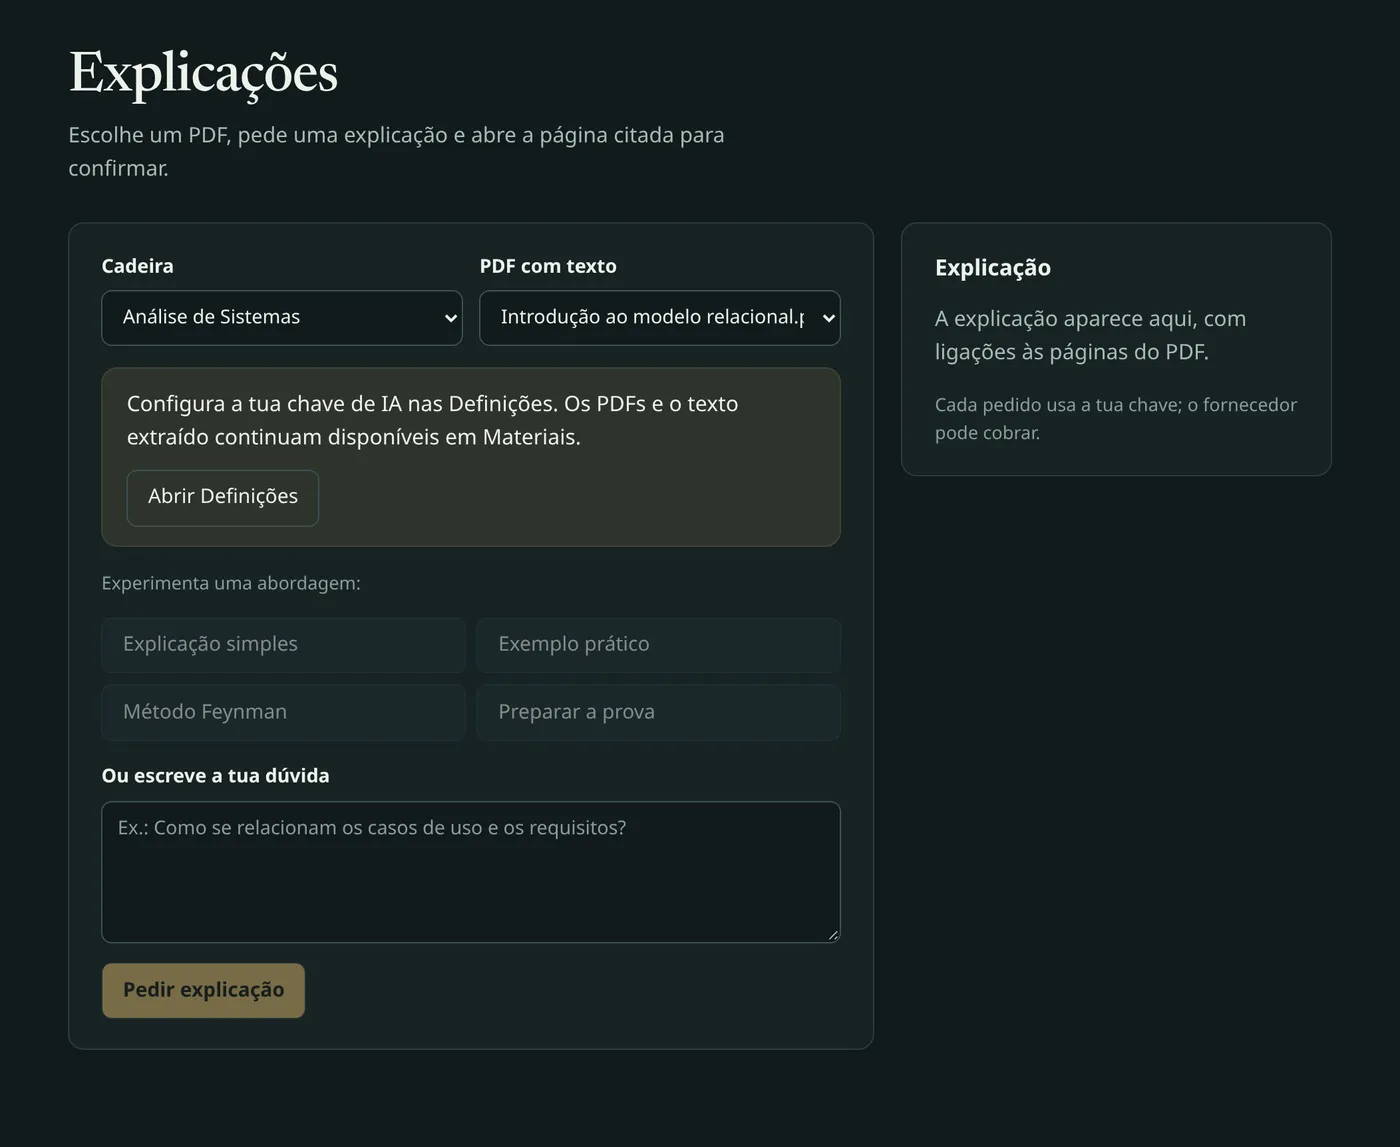
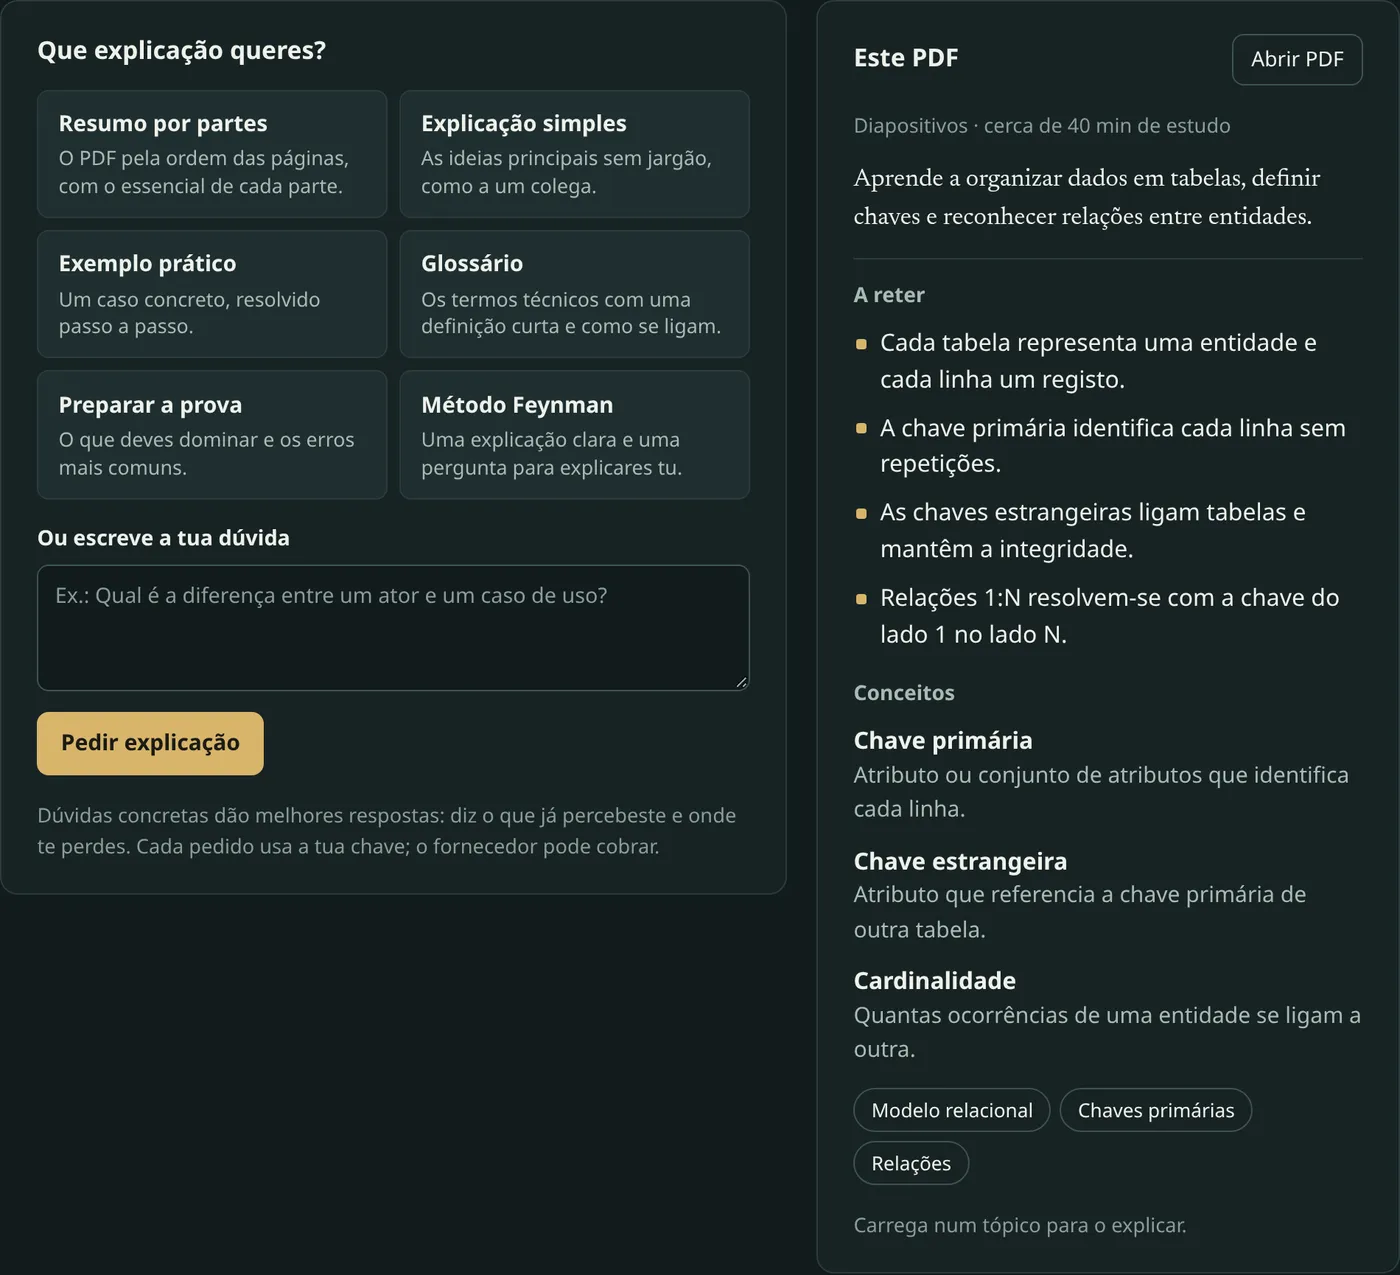
Publish launch site and signing policy

diff --git a/site/index.html b/site/index.html
@@ -62,7 +62,7 @@
       </figure>
       <h3 class="lp-subhead">Para estudar</h3>
       <div class="lp-tools">
-        <article class="lp-tool lp-tool-w7"><img src="/screenshots/explicacoes.webp" alt="Ecrã Explicações com escolha de cadeira e PDF e abordagens como explicação simples ou método Feynman" loading="lazy" width="1400" height="1147">
+        <article class="lp-tool lp-tool-w7"><img src="/screenshots/explicacoes.webp" alt="Ecrã Explicações com seis formas de pedir uma explicação e resumo do PDF escolhido" loading="lazy" width="1400" height="1275">
           <div class="lp-tool-text"><h4>Explicações com fontes</h4><p>Pergunta sobre um PDF e recebe uma explicação com ligações às páginas usadas.</p><span class="lp-req lp-req-ai">Usa a análise dos PDFs</span></div></article>
         <article class="lp-tool lp-tool-w5"><img src="/screenshots/flashcards.webp" alt="Ecrã Flashcards com uma carta revelada e os botões Ainda não, Quase e Percebi" loading="lazy" width="1400" height="1091">
           <div class="lp-tool-text"><h4>Flashcards</h4><p>Revisão espaçada, com uma ou várias cadeiras no mesmo baralho.</p><span class="lp-req lp-req-ai">Usa a análise dos PDFs</span></div></article>
@@ -88,7 +88,7 @@
           <div class="lp-download-option"><h3>Pelo GitHub</h3><p>Escolhe a versão na página de releases, com as notas de cada uma e as anteriores.</p>
             <a class="button" href="https://github.com/miguelaopt/caderno/releases">Descarregar no GitHub</a></div>
         </div>
-        <p class="lp-small">O ficheiro vem sempre das releases do GitHub. O instalador ainda não tem assinatura de código, por isso o Windows pode mostrar um aviso de editor desconhecido. <a href="https://github.com/miguelaopt/caderno/blob/main/docs/DESKTOP.md">Instruções de instalação</a>.</p>
+        <p class="lp-small">O ficheiro vem sempre das releases do GitHub. O instalador ainda não tem assinatura de código, por isso o Windows pode mostrar um aviso de editor desconhecido. <a href="https://github.com/miguelaopt/caderno/blob/main/docs/DESKTOP.md">Instruções de instalação</a> · <a href="https://github.com/miguelaopt/caderno#code-signing-policy">Code signing policy</a>.</p>
         <dl class="lp-facts">
           <div><dt>Materiais</dt><dd>Em Documentos\Caderno\Materiais. Se o Windows redirecionar Documentos para o OneDrive, o Caderno usa essa pasta.</dd></div>
           <div><dt>Sem internet</dt><dd>Os PDFs já importados abrem no visualizador da aplicação. Resumos, perguntas e flashcards já criados continuam disponíveis.</dd></div>
@@ -121,7 +121,7 @@
           <li><strong>Pedes o resumo</strong> Num PDF ou para os PDFs pendentes. Importar ficheiros ou sincronizar o Moodle nunca inicia uma análise.</li>
         </ol>
         <p class="lp-small">Cada pedido vai diretamente do teu computador para o fornecedor, que o pode cobrar na tua conta. A chave fica cifrada no computador e não aparece na exportação de dados.</p></div>
-      <figure class="lp-settings"><img class="lp-shot" src="/screenshots/chave-ia.webp" alt="Secção A tua chave de IA nas Definições, com fornecedor, chave de API, modelos para resumos e explicações e URL base para serviços compatíveis" loading="lazy" width="930" height="1244">
+      <figure class="lp-settings"><img class="lp-shot" src="/screenshots/chave-ia.webp" alt="Secção A tua chave de IA nas Definições, com o fornecedor Groq e modelos sugeridos" loading="lazy" width="930" height="1874">
         <figcaption>Definições, secção «A tua chave de IA».</figcaption></figure>
     </div>
   </section>
@@ -131,11 +131,11 @@
     <div class="lp-body lp-open">
       <div><h2 id="codigo-title">Código aberto de verdade</h2>
         <p class="lp-intro">O Caderno é publicado sob a licença MIT. Podes ler o código, compilar a tua própria versão, adaptá-la e propor alterações.</p>
-        <ul class="lp-links"><li><a href="https://github.com/miguelaopt/caderno">Repositório no GitHub</a></li><li><a href="https://github.com/miguelaopt/caderno#readme">README</a></li><li><a href="https://github.com/miguelaopt/caderno/issues">Issues</a></li><li><a href="https://github.com/miguelaopt/caderno/blob/main/CONTRIBUTING.md">CONTRIBUTING.md</a></li></ul></div>
+        <ul class="lp-links"><li><a href="https://github.com/miguelaopt/caderno">Repositório no GitHub</a></li><li><a href="https://github.com/miguelaopt/caderno#readme">README</a></li><li><a href="https://github.com/miguelaopt/caderno#code-signing-policy">Code signing policy</a></li><li><a href="https://github.com/miguelaopt/caderno/issues">Issues</a></li><li><a href="https://github.com/miguelaopt/caderno/blob/main/CONTRIBUTING.md">CONTRIBUTING.md</a></li></ul></div>
       <figure class="lp-code"><pre><code>npm ci
 npm run desktop:dev</code></pre><figcaption>Requer Node 24. O segundo comando abre a aplicação a partir do código.</figcaption></figure>
       <div class="lp-control"><h3>Sem conta, sem servidor</h3>
-        <p>Não há nada para registar. Os ficheiros, o progresso e as chaves ficam no teu computador; só o Moodle e o fornecedor de IA que escolheres recebem pedidos.</p></div>
+        <p>Não há nada para registar. Os ficheiros, o progresso e as chaves ficam no teu computador; a aplicação comunica com o Moodle, o fornecedor de IA que escolheres e o GitHub para procurar atualizações.</p></div>
       <div class="lp-control"><h3>O que controlas</h3>
         <p>Exportar os dados, apagar tudo, desligar o Moodle, escolher o fornecedor de IA e retirar a autorização de análise.</p></div>
     </div>

diff --git a/site/privacidade.html b/site/privacidade.html
@@ -29,10 +29,13 @@
   <p>Se ligares o Moodle, o Caderno envia o utilizador e a palavra-passe à plataforma que indicaste para obter uma chave de acesso. A palavra-passe não é guardada; a chave fica cifrada no teu computador. O acesso aos materiais continua sujeito às permissões da tua conta Moodle. Para revogar a chave, usa a página Chaves de segurança do teu perfil no Moodle.</p>
 
   <h2>Inteligência artificial</h2>
-  <p>A IA é opcional. Só depois de configurares a tua chave e autorizares a análise é que o texto de PDFs não classificados como sensíveis é enviado, a partir do teu computador, ao fornecedor que escolheste. Esse fornecedor pode cobrar os pedidos e trata os dados segundo a sua própria política. Podes retirar a autorização quando quiseres.</p>
+  <p>A IA é opcional. Só depois de configurares a tua chave e autorizares a análise é que o texto de PDFs não classificados como sensíveis é enviado, a partir do teu computador, ao fornecedor que escolheste. Esse fornecedor pode cobrar os pedidos e trata os dados segundo a sua própria política. Consulta as políticas de <a href="https://privacy.anthropic.com/en/">Anthropic</a>, <a href="https://openai.com/policies/">OpenAI</a>, <a href="https://platform.deepseek.com/downloads/DeepSeek%20Privacy%20Policy.pdf">DeepSeek</a> ou <a href="https://groq.com/privacy-policy">Groq</a>, conforme a tua escolha. Para outro serviço compatível, consulta a política que ele publicar. Podes retirar a autorização quando quiseres.</p>
 
   <h2>Este site</h2>
   <p>Este site não usa cookies nem ferramentas de análise. Guarda apenas o tema que escolheres no teu browser. Para mostrar a versão mais recente, o browser consulta a API pública do GitHub, e os instaladores são descarregados das releases do GitHub. O alojamento do site pode registar dados técnicos de acesso, como o endereço IP, segundo as regras do fornecedor de alojamento.</p>
+
+  <h2>Ligações externas</h2>
+  <p>O site e a aplicação incluem ligações para o <a href="https://github.com/miguelaopt/caderno">GitHub</a>, onde estão o código, as releases e os formulários para reportar problemas, e para o <a href="https://ko-fi.com/miguelaopt">Ko-fi</a>, onde podes apoiar o projeto. Se abrires estas ligações, passas a usar serviços externos; consulta as políticas de privacidade do <a href="https://docs.github.com/en/site-policy/privacy-policies/github-general-privacy-statement">GitHub</a> e do <a href="https://more.ko-fi.com/privacy">Ko-fi</a>. A aplicação também consulta o GitHub para procurar atualizações.</p>
 
   <h2>Termos de utilização</h2>
   <p>O Caderno é distribuído sob a <a href="https://github.com/miguelaopt/caderno/blob/main/LICENSE">licença MIT</a>, sem garantias. É uma ferramenta independente, sem afiliação ao Moodle. Usa apenas materiais a que tens direito de acesso. Os resumos e as explicações ajudam a estudar mas podem conter erros: confirma sempre na fonte.</p>

diff --git a/README.md b/README.md
@@ -6,9 +6,21 @@ Não há contas nem servidor: a aplicação usa um perfil local e guarda tudo no
 
 ## Descarregar
 
-O site (pasta [`site/`](site/)) liga sempre ao instalador mais recente das [releases do GitHub](https://github.com/miguelaopt/caderno/releases), que também podem ser usadas diretamente. Instruções de instalação, cópias de segurança e compilação: [docs/DESKTOP.md](docs/DESKTOP.md).
+O [site do Caderno](https://caderno.me) (pasta [`site/`](site/)) liga sempre ao instalador mais recente das [releases do GitHub](https://github.com/miguelaopt/caderno/releases), que também podem ser usadas diretamente. Instruções de instalação, cópias de segurança e compilação: [docs/DESKTOP.md](docs/DESKTOP.md).
 
 O instalador ainda não está assinado; o Windows pode mostrar um aviso de editor desconhecido.
+
+## Code signing policy
+
+Esta política aplica-se às futuras versões assinadas. A versão 0.3.1 e as anteriores ainda não têm assinatura de código.
+
+Free code signing provided by [SignPath.io](https://signpath.io), certificate by [SignPath Foundation](https://signpath.org).
+
+- **Autor e responsável pelo código:** [Miguel Ferreira](https://github.com/miguelaopt).
+- **Revisor de contribuições externas:** [Miguel Ferreira](https://github.com/miguelaopt).
+- **Aprovador de cada pedido de assinatura:** [Miguel Ferreira](https://github.com/miguelaopt).
+
+As versões são compiladas a partir do código público no [GitHub Actions](.github/workflows/windows.yml). Cada pedido de assinatura de uma release terá aprovação manual. A [política de privacidade](https://caderno.me/privacidade) explica quando a aplicação comunica com o Moodle, com o fornecedor de IA escolhido e com o GitHub, e identifica os serviços externos usados por ligações do site e da aplicação.
 
 ## Onde ficam os dados
 

diff --git a/docs/DESKTOP.md b/docs/DESKTOP.md
@@ -6,7 +6,7 @@ Os PDFs já guardados abrem sem internet. Outros ficheiros ficam na pasta Docume
 
 ## Instalar
 
-Descarrega o instalador mais recente em [Releases](https://github.com/miguelaopt/caderno/releases/latest) (ficheiro `Caderno-<versão>-Windows-x64.exe`), executa-o e escolhe a pasta de instalação. É um instalador x64 sem assinatura de código; o Windows pode apresentar um aviso de editor desconhecido. O código e o processo de build estão neste repositório.
+Descarrega o instalador mais recente em [Releases](https://github.com/miguelaopt/caderno/releases/latest) (ficheiro `Caderno-<versão>-Windows-x64.exe`), executa-o e escolhe a pasta de instalação. É um instalador x64 sem assinatura de código; o Windows pode apresentar um aviso de editor desconhecido. O código, a [Code signing policy](../README.md#code-signing-policy) e o processo de build estão neste repositório.
 
 Ao abrir pela primeira vez, um guia de início ajuda a juntar as cadeiras, a definir o tempo de estudo e, se quiseres, a configurar a IA; podes reabri-lo nas Definições. Para ligar o Moodle, indica o endereço HTTPS da plataforma em **Cadeiras → Moodle**, guarda e introduz as tuas credenciais. Também podes criar cadeiras manuais e enviar materiais sem configurar o Moodle. Em **Definições**, podes adicionar a tua própria chave de IA; é opcional. Anthropic, OpenAI, DeepSeek e Groq têm ligação direta. Para outro fornecedor que use Chat Completions, indica a URL base HTTPS e os IDs dos modelos.
 
